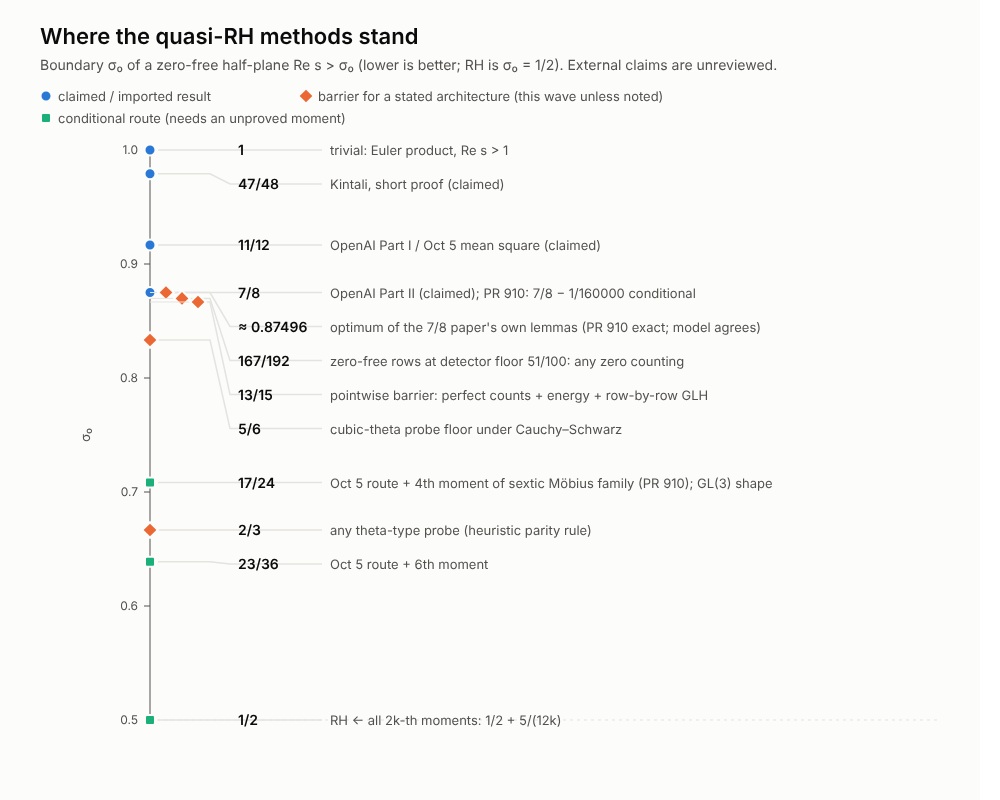
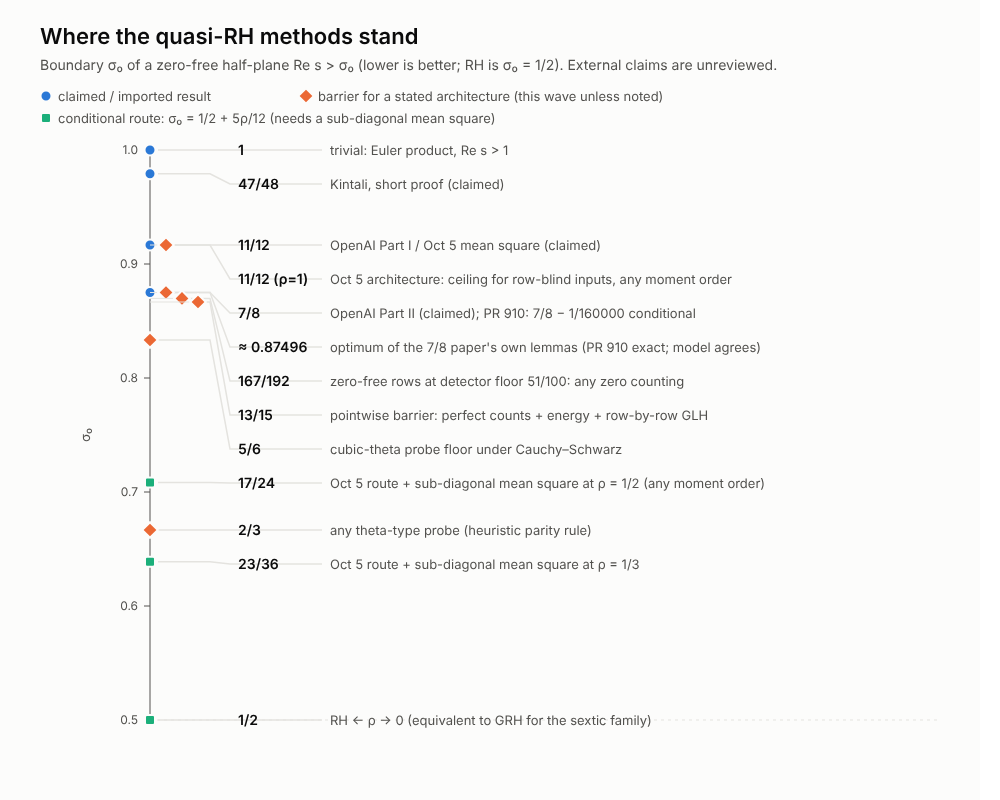
figures(qrh): ladder shows the Oct 5 row-blind ceiling (rho = 1) and rho-parametrized routes
Claude-Session: https://claude.ai/code/session_0189afnFRAbg7XqxM2kzExtY

diff --git a/research/exploratory/qrh-2026-10/scripts/make_ladder_svg.py b/research/exploratory/qrh-2026-10/scripts/make_ladder_svg.py
@@ -8,15 +8,16 @@ items = [  # (value, label, sublabel, category)
     (1.0, "1", "trivial: Euler product, Re s > 1", "res"),
     (float(F(47, 48)), "47/48", "Kintali, short proof (claimed)", "res"),
     (float(F(11, 12)), "11/12", "OpenAI Part I / Oct 5 mean square (claimed)", "res"),
+    (float(F(11, 12)), "11/12 (ρ=1)", "Oct 5 architecture: ceiling for row-blind inputs, any moment order", "bar"),
     (0.875, "7/8", "OpenAI Part II (claimed); PR 910: 7/8 − 1/160000 conditional", "res"),
     (0.874957, "≈ 0.87496", "optimum of the 7/8 paper's own lemmas (PR 910 exact; model agrees)", "bar"),
     (float(F(167, 192)), "167/192", "zero-free rows at detector floor 51/100: any zero counting", "bar"),
     (float(F(13, 15)), "13/15", "pointwise barrier: perfect counts + energy + row-by-row GLH", "bar"),
     (float(F(5, 6)), "5/6", "cubic-theta probe floor under Cauchy–Schwarz", "bar"),
-    (float(F(17, 24)), "17/24", "Oct 5 route + 4th moment of sextic Möbius family (PR 910); GL(3) shape", "route"),
+    (float(F(17, 24)), "17/24", "Oct 5 route + sub-diagonal mean square at ρ = 1/2 (any moment order)", "route"),
     (float(F(2, 3)), "2/3", "any theta-type probe (heuristic parity rule)", "bar"),
-    (float(F(23, 36)), "23/36", "Oct 5 route + 6th moment", "route"),
-    (0.5, "1/2", "RH  ←  all 2k-th moments: 1/2 + 5/(12k)", "route"),
+    (float(F(23, 36)), "23/36", "Oct 5 route + sub-diagonal mean square at ρ = 1/3", "route"),
+    (0.5, "1/2", "RH  ←  ρ → 0 (equivalent to GRH for the sextic family)", "route"),
 ]
 W, H = 980, 780
 top, bot = 150, 720
@@ -50,7 +51,7 @@ out = [f'<svg xmlns="http://www.w3.org/2000/svg" width="{W}" height="{H + 20}" v
 # legend
 for (cat, name), (lx, ly) in zip([("res", "claimed / imported result"),
                   ("bar", "barrier for a stated architecture (this wave unless noted)"),
-                  ("route", "conditional route (needs an unproved moment)")], [(40, 96), (300, 96), (40, 118)]):
+                  ("route", "conditional route: σ₀ = 1/2 + 5ρ/12 (needs a sub-diagonal mean square)")], [(40, 96), (300, 96), (40, 118)]):
     out.append(marker(cat, lx + 6, ly))
     out.append(f'<text x="{lx + 18}" y="{ly + 5}" font-size="13" fill="{INK2}">{name}</text>')
 # axis
@@ -64,7 +65,7 @@ out.append(f'<text x="{x_axis - 60}" y="{(top+bot)/2:.0f}" font-size="13" fill="
 # critical-line band label
 out.append(f'<line x1="{x_axis}" y1="{y_of(0.5):.1f}" x2="{W - 40}" y2="{y_of(0.5):.1f}" stroke="{GRID}" stroke-width="1" stroke-dasharray="3 4"/>')
 lab_x = 330
-offs = {"≈ 0.87496": 16, "167/192": 32, "13/15": 48}
+offs = {"≈ 0.87496": 16, "167/192": 32, "13/15": 48, "11/12 (ρ=1)": 16}
 for v, a, b, c, ty, ly in labels:
     mx = x_axis + offs.get(a, 0)
     if mx != x_axis:

diff --git a/research/exploratory/qrh-2026-10/SYNTHESIS.md b/research/exploratory/qrh-2026-10/SYNTHESIS.md
@@ -15,7 +15,8 @@ Smallest remaining gap: RH needs exponent 0 everywhere; the best imported claim 
 
 *Figure: boundaries σ₀ of zero-free half-planes. Blue circles are claimed or imported results
 (unreviewed). Orange diamonds are barriers for a stated architecture. Green squares are
-conditional routes needing an unproved moment. Generated by `scripts/make_ladder_svg.py`.*
+conditional routes needing a sub-diagonal mean square of the Oct 5 family
+(boundary `1/2 + 5ρ/12`). Generated by `scripts/make_ladder_svg.py`.*
 
 **RH remains unproved. Nothing here proves or disproves it.** The October 2026 manuscripts claim
 *quasi*-RH (a zero-free half-plane `Re s > 7/8`) and are unreviewed. This wave asked what those
